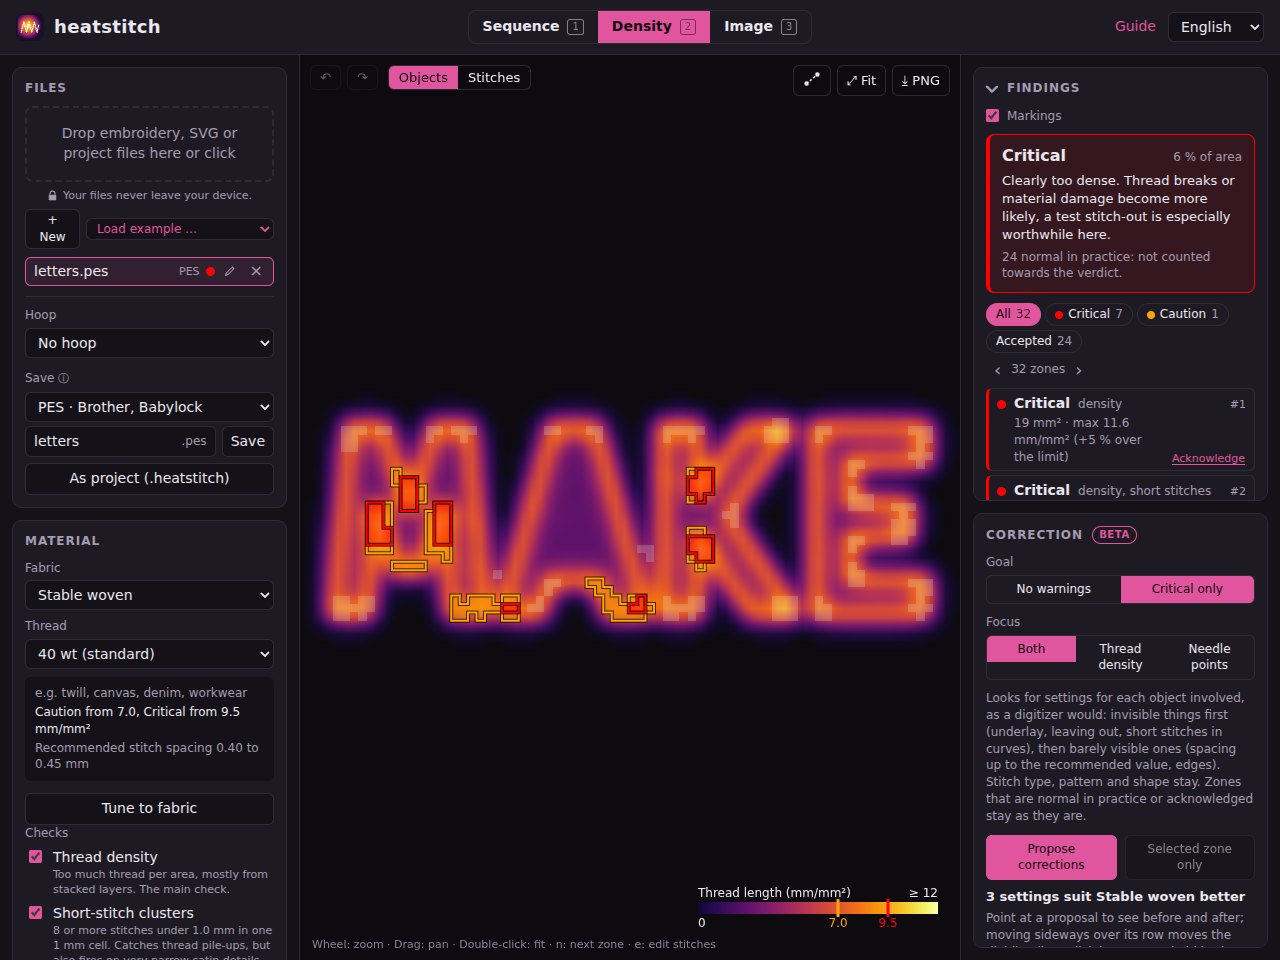
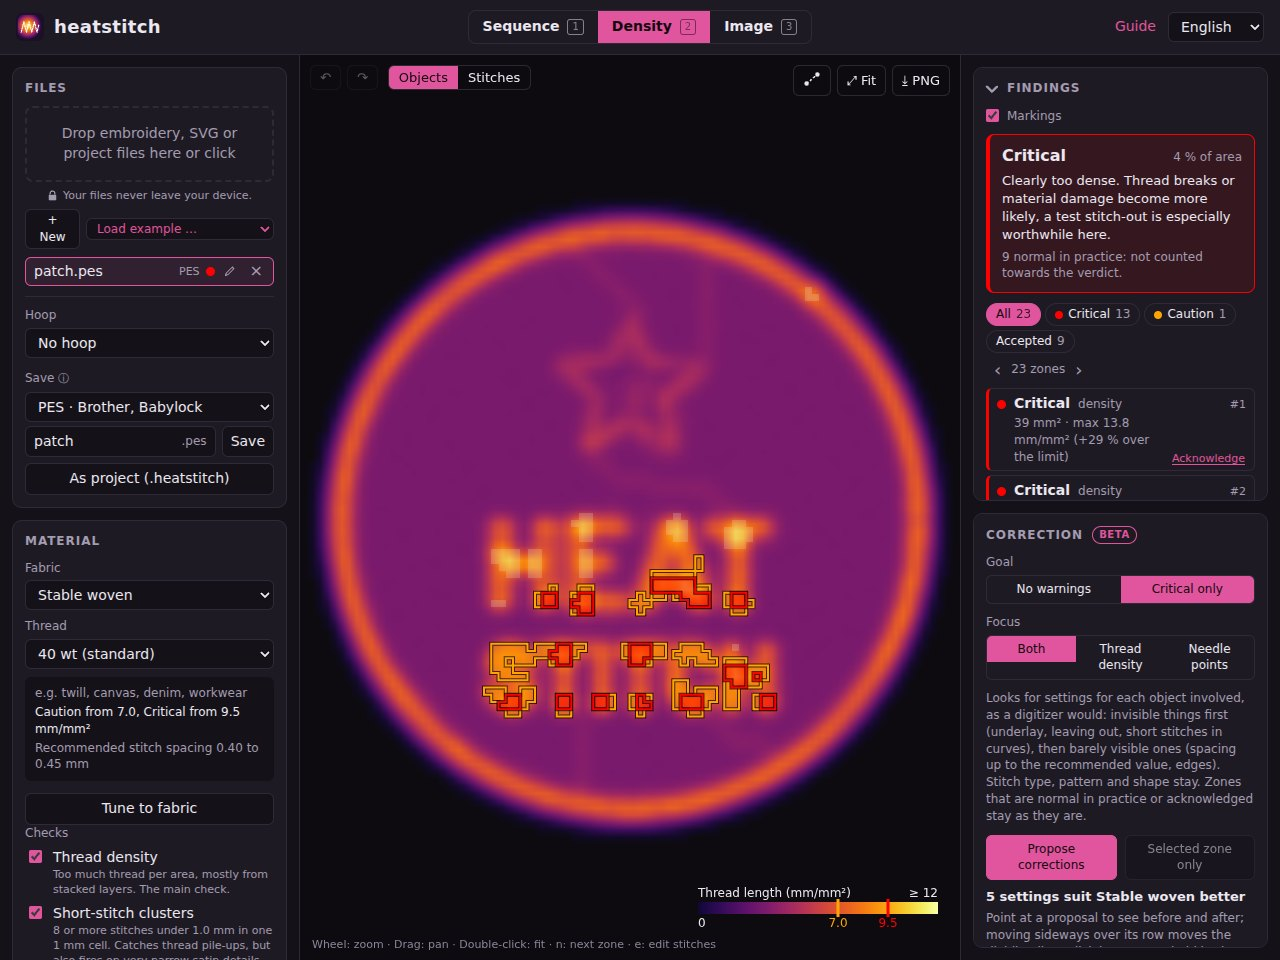
Guide shows the patch instead of the MAKE letters
Satin, merge, stitches, findings and compare figures and their captions now use patch.pes, the Aufnäher of the demo project.

Claude-Session: https://claude.ai/code/session_01379gitMZ3UzT9w36uwz6PC

diff --git a/docs.html b/docs.html
@@ -121,7 +121,7 @@
         <p class="demos">
           <b>Zum Ausprobieren</b> gibt es die Demo-Dateien, aus denen die Bilder dieser Anleitung stammen, jede mit einem Befund:
           <a href="examples/demos/overlap.pes" download>overlap.pes</a> (gestapelte Füllungen),
-          <a href="examples/demos/letters.pes" download>letters.pes</a> (Füllung unter Satin),
+          <a href="examples/demos/patch.pes" download>patch.pes</a> (der Aufnäher aus dem Demo-Projekt als Stickdatei: Satinschrift auf einer Füllung),
           <a href="examples/demos/sun.dst" download>sun.dst</a> (Kurzstiche),
           <a href="examples/demos/leather-patch.dst" download>leather-patch.dst</a> (Perforation) und
           <a href="examples/demos/confetti.pes" download>confetti.pes</a> (Sprünge und Schnitte).
@@ -187,8 +187,8 @@
           <dd><i>Nicht sticken</i> behält die gewählten Objekte, nimmt sie aber aus den Stichen: Sie bleiben als dünner Umriss sichtbar. <i>Als Hilfslinie</i> behält sie als gestrichelte Linie, etwa den Umriss des Kleidungsstücks oder eine Linie zum Ausrichten; Hilfslinien werden nie gestickt. Beide warten im Block <i>Nicht gestickt</i> unter der Liste. Dort holt <i>Sticken</i> eines an seine alte Stelle in der Reihenfolge zurück, mit Stichen und Einstellungen wie vorher; der mittlere Knopf wechselt zwischen aus und Hilfslinie, × löscht es. Hat eine SVG ein schlichtes Rechteck hinter allem, wie es viele Zeichenprogramme exportieren, ist das ein Hintergrund: Er wird nicht gestickt, sondern landet ebenfalls dort.</dd>
         </dl>
         <figure>
-          <img src="/guide/merge-de.jpg" width="1280" height="800" loading="lazy" alt="Die Buchstaben M und K aus letters.pes zu einer Füllung zusammengefasst, rechts das Objekt mit seinen Teilen und dem Knopf In Teile trennen" />
-          <figcaption>M und K aus <a href="examples/demos/letters.pes" download>letters.pes</a> zu einem Objekt zusammengefasst: eine Fläche, neu gestickt mit durchlaufenden Reihen.</figcaption>
+          <img src="/guide/merge-de.jpg" width="1280" height="800" loading="lazy" alt="Der Stern aus patch.pes als ein Objekt, rechts die Karte Objekt mit seinen zwei Teilen und dem Knopf In Teile trennen" />
+          <figcaption>Der Stern aus <a href="examples/demos/patch.pes" download>patch.pes</a> war als zwei Objekte erkannt, Fläche und Rand. Zusammengefasst ist er ein Objekt mit zwei Teilen, das sich als Ganzes verschieben und einstellen lässt.</figcaption>
         </figure>
 
         <h2 id="de-settings">Stich-Einstellungen</h2>
@@ -271,12 +271,12 @@
           <dd>Mit <i>Mit Querlinien zu Satin</i> ziehst du auf einer Füllung auch Trennlinien (Schalter auf <i>Trennlinie</i>, Taste <kbd>t</kbd>, oder <kbd>Umschalt</kbd> beim Ziehen). Sie teilen die Fläche in Teile, etwa die drei Beine eines m vom Bogen, und jeder Teil wird eine Säule für sich: Eine Querlinie darin reicht. Die Teile werden in einem Zug ohne Garnschnitt gestickt: Ein Teil, der an einem anderen hängt, wird zuerst hin und zurück gestickt, und der Weg dazwischen liegt unter Satin, der später kommt. Ein Loch wie in e, R oder o öffnest du mit einer Trennlinie vom Rand hinein (bei mehreren Löchern wie in B oder 8 je eine, auch von Loch zu Loch); der Satin läuft dann um es herum. Ein Teil, der keine Säule ergibt, oder ein noch nicht geöffnetes Loch wird rot umrandet. Unter <i>Richtung festlegen</i> zeigt jeder Teil dort, wo sein Satin beginnt, seinen Platz in der Reihenfolge: Nummer, Pfeil, Schere und ⇄ wie bei den Abschnitten; <i>Beste Reihenfolge</i> wählt Reihenfolge, Richtung und Spiegelung so, dass die Wege zwischen den Teilen unter noch zu stickendem Satin liegen, wie beim ersten Sticken als Satin. Die Trennlinien bleiben bearbeitbar: ein Ende ziehen, eine anklicken und <kbd>Entf</kbd> drücken oder eine neue ziehen, und die Fläche wird neu geteilt. Solange ein Teil keine Querlinie hat oder ein Loch nicht geöffnet ist, bleiben die Stiche, wie sie waren.</dd>
         </dl>
         <figure>
-          <img src="/guide/satin-de.jpg" width="1280" height="800" loading="lazy" alt="Die Satinkante des M aus letters.pes mit ihren Querlinien: gelbe Linien quer über die Säule, an jeder Ecke aufgefächert, das Feld Richtung in der Karte" />
-          <figcaption>Das Satin-M aus <a href="examples/demos/letters.pes" download>letters.pes</a> nach <i>Ecken vorschlagen</i>: An jedem Knick fächern die Querlinien auf, sodass die Stiche um die Ecke drehen, statt sich zu stauen.</figcaption>
+          <img src="/guide/satin-de.jpg" width="1280" height="800" loading="lazy" alt="Das Satin-S aus patch.pes mit seinen Querlinien: gelbe Linien quer über die Säule, in den Bögen aufgefächert, die Karte Objekt rechts" />
+          <figcaption>Das Satin-S aus <a href="examples/demos/patch.pes" download>patch.pes</a> nach <i>Richtung festlegen</i>: In den Bögen fächern die Querlinien auf, sodass die Stiche der Kurve folgen, statt sich innen zu stauen. Jede gelbe Linie lässt sich an ihren Enden ziehen.</figcaption>
         </figure>
         <figure>
-          <img src="/guide/sections.jpg" width="480" height="575" loading="lazy" alt="Das Satin-M aus letters.pes in acht Abschnitten: hellblaue Trennlinien an den spitzen Ecken, gelbe Querlinien dazwischen, an jedem Abschnitt Nummer, Pfeil und Schere" />
-          <figcaption>Dasselbe M nach <i>Abschnitte vorschlagen</i>: Die hellblauen Trennlinien teilen es an den spitzen Ecken in acht Abschnitte, gestickt ohne Garnschnitt. Nummer, Pfeil und Schere an jedem Abschnitt ändern Reihenfolge, Richtung und Schnitt.</figcaption>
+          <img src="/guide/sections.jpg" width="480" height="575" loading="lazy" alt="Das Satin-S aus patch.pes in drei Abschnitten: hellblaue Trennlinien an den Enden der Bögen, gelbe Querlinien dazwischen, an jedem Abschnitt Nummer, Pfeil und Schere" />
+          <figcaption>Dasselbe S nach <i>Abschnitte vorschlagen</i>: Die hellblauen Trennlinien teilen es in drei Abschnitte, die nacheinander gestickt werden. Nummer, Pfeil und Schere an jedem Abschnitt ändern Reihenfolge, Richtung und Schnitt.</figcaption>
         </figure>
 
         <h3 id="de-lines">Linien und Steppstich</h3>
@@ -336,8 +336,8 @@
           Auswahl mehrere Objekte umfassen, siehe <a href="#de-correct">Korrektur von Hand</a>.
         </p>
         <figure>
-          <img src="/guide/stitches-de.jpg" width="1280" height="800" loading="lazy" alt="Das A aus letters.pes auf der Ebene Stiche: seine Einstiche als Punkte, einer gewählt mit den Längen seiner beiden Stiche, die Karte Objekt mit den Änderungen von Hand" />
-          <figcaption>Das A aus <a href="examples/demos/letters.pes" download>letters.pes</a> auf der Ebene <i>Stiche</i>: ein Einstich verschoben, das Etikett zeigt die beiden Stichlängen, die Karte zählt die Änderung.</figcaption>
+          <img src="/guide/stitches-de.jpg" width="1280" height="800" loading="lazy" alt="Der Stern aus patch.pes auf der Ebene Stiche: seine Einstiche als Punkte, einer gewählt mit den Längen seiner beiden Stiche, die Karte Objekt mit den Änderungen von Hand" />
+          <figcaption>Der Stern aus <a href="examples/demos/patch.pes" download>patch.pes</a> auf der Ebene <i>Stiche</i>: ein Einstich verschoben, das Etikett zeigt die beiden Stichlängen, die Karte zählt die Änderung.</figcaption>
         </figure>
 
         <h2 id="de-draw">Formen zeichnen</h2>
@@ -508,8 +508,8 @@
           <i>quittieren</i>, wenn sie so bleiben soll. Perforation zählt immer. Die Liste der Befunde lässt sich zuklappen, ihr Urteil bleibt in der Kopfzeile.
         </p>
         <figure>
-          <img src="/guide/findings-de.jpg" width="1280" height="960" loading="lazy" alt="Schriftzug MAKE mit kritischen Zonen im Inneren der Buchstaben und grauen Zonen an den Rändern, rechts die Befunde" />
-          <figcaption><a href="examples/demos/letters.pes" download>letters.pes</a>: Die Füllung reicht weit unter die Satinkante. Rote und orange Zonen zählen, die grauen Stellen an Ecken und Übergängen sind praxisüblich.</figcaption>
+          <img src="/guide/findings-de.jpg" width="1280" height="960" loading="lazy" alt="Der Aufnäher als Dichtekarte: kritische Zonen in den Satinbuchstaben HEAT STITCH auf der Füllung, rechts die Befunde" />
+          <figcaption><a href="examples/demos/patch.pes" download>patch.pes</a>: Die Satinbuchstaben liegen auf der vollen Füllung, dort stapelt sich das Garn. Rote und orange Zonen zählen, die grauen Stellen an Ecken und Übergängen sind praxisüblich.</figcaption>
         </figure>
         <div class="fig-pair">
           <figure>
@@ -583,8 +583,8 @@
           Fläche und Spitzendichte.
         </p>
         <figure>
-          <img src="/guide/compare-de.jpg" width="1280" height="960" loading="lazy" alt="Geteilte Ansicht des Schriftzugs, links Original, rechts korrigiert, mit Vergleichstabelle" />
-          <figcaption>Vergleich mit realistischen Fäden: Die Stiche sehen gleich aus, die Tabelle zeigt, was sich geändert hat.</figcaption>
+          <img src="/guide/compare-de.jpg" width="1280" height="960" loading="lazy" alt="Geteilte Ansicht des Aufnähers, links Original, rechts korrigiert, mit Vergleichstabelle" />
+          <figcaption>Links das Original, rechts die Korrektur: Die kritische Fläche des Aufnähers schrumpft auf gut ein Drittel, die Tabelle zeigt jede Zahl vorher und nachher.</figcaption>
         </figure>
 
         <h2 id="de-image">Modus Bild</h2>
@@ -818,7 +818,7 @@
         <p class="demos">
           <b>To try things out</b> there are the demo files the pictures in this guide come from, each with one finding:
           <a href="examples/demos/overlap.pes" download>overlap.pes</a> (stacked fills),
-          <a href="examples/demos/letters.pes" download>letters.pes</a> (fill under satin),
+          <a href="examples/demos/patch.pes" download>patch.pes</a> (the patch of the demo project as a stitch file: satin letters on a fill),
           <a href="examples/demos/sun.dst" download>sun.dst</a> (short stitches),
           <a href="examples/demos/leather-patch.dst" download>leather-patch.dst</a> (perforation) and
           <a href="examples/demos/confetti.pes" download>confetti.pes</a> (jumps and trims).
@@ -883,8 +883,8 @@
           <dd><i>Don't sew</i> keeps the selected objects but takes them out of the stitches: they stay visible as a thin outline. <i>As a guide</i> keeps them as a dashed line, say the outline of the garment or a line to align to; guides are never sewn. Both wait in the <i>Not sewn</i> block under the list. There, <i>Sew</i> brings one back to its old place in the order, with stitches and settings as before; the middle button switches between off and guide, × deletes it. If an SVG has a plain rectangle behind everything, as many drawing programs export it, that is a background: it is not sewn and lands there as well.</dd>
         </dl>
         <figure>
-          <img src="/guide/merge-en.jpg" width="1280" height="800" loading="lazy" alt="The letters M and K of letters.pes combined into one fill, on the right the object with its pieces and the Split into pieces button" />
-          <figcaption>M and K of <a href="examples/demos/letters.pes" download>letters.pes</a> combined into one object: one area, sewn anew with rows running through.</figcaption>
+          <img src="/guide/merge-en.jpg" width="1280" height="800" loading="lazy" alt="The star of patch.pes as one object, on the right the Object card with its two pieces and the Split into pieces button" />
+          <figcaption>The star of <a href="examples/demos/patch.pes" download>patch.pes</a> was recognized as two objects, area and edge. Combined it is one object with two pieces that moves and takes settings as a whole.</figcaption>
         </figure>
 
         <h2 id="en-settings">Stitch settings</h2>
@@ -967,12 +967,12 @@
           <dd>With <i>To satin with rungs</i> on a fill you can also draw cut lines (switch to <i>Cut line</i>, press <kbd>t</kbd>, or hold <kbd>Shift</kbd> while drawing). They split the area into parts, for example the three legs of an m from its arch, and each part becomes a column of its own: one rung in it is enough. The parts are sewn as one run without trims: a part that hangs off another is sewn out and back first, and the way between them stays under satin that comes later. A hole, as in e, R or o, is opened with a cut line from the edge into it (with several holes, as in B or 8, one each, also from hole to hole); the satin then goes round it. A part that makes no column or a hole not opened yet is outlined in red. Under <i>Set direction</i> each part shows its place in the order where its satin starts: number, arrow, scissors and ⇄ as with the sections; <i>Best order</i> picks order, direction and mirroring so the ways between the parts run under satin still to be sewn, as when the fill is first sewn as satin. The cut lines stay editable: drag an end, click one and press <kbd>Del</kbd>, or draw a new one, and the area is cut into parts anew. Until every part has a rung and every hole is open, the stitches stay as they were.</dd>
         </dl>
         <figure>
-          <img src="/guide/satin-en.jpg" width="1280" height="800" loading="lazy" alt="The satin border of the M in letters.pes with its rungs shown: yellow lines across the column, fanning out at each corner, the Direction field in the card" />
-          <figcaption>The satin M of <a href="examples/demos/letters.pes" download>letters.pes</a> after <i>Suggest corners</i>: at every bend the rungs fan out, so the stitches turn around the corner instead of piling up.</figcaption>
+          <img src="/guide/satin-en.jpg" width="1280" height="800" loading="lazy" alt="The satin S of patch.pes with its rungs shown: yellow lines across the column, fanning out in the bends, the Object card on the right" />
+          <figcaption>The satin S of <a href="examples/demos/patch.pes" download>patch.pes</a> after <i>Set direction</i>: in the bends the rungs fan out, so the stitches follow the curve instead of piling up on the inside. Every yellow line can be dragged at its ends.</figcaption>
         </figure>
         <figure>
-          <img src="/guide/sections.jpg" width="480" height="575" loading="lazy" alt="The satin M of letters.pes in eight sections: light blue cut lines at the sharp corners, yellow rungs between them, a number, arrow and scissors on each section" />
-          <figcaption>The same M after <i>Suggest sections</i>: the light blue cut lines split it at the sharp corners into eight sections, sewn without a trim. Number, arrow and scissors on each section change its order, direction and trim.</figcaption>
+          <img src="/guide/sections.jpg" width="480" height="575" loading="lazy" alt="The satin S of patch.pes in three sections: light blue cut lines at the ends of the bends, yellow rungs between them, a number, arrow and scissors on each section" />
+          <figcaption>The same S after <i>Suggest sections</i>: the light blue cut lines split it into three sections, sewn one after the other. Number, arrow and scissors on each section change its order, direction and trim.</figcaption>
         </figure>
 
         <h3 id="en-lines">Lines and running stitch</h3>
@@ -1030,8 +1030,8 @@
           objects, see <a href="#en-correct">Correction by hand</a>.
         </p>
         <figure>
-          <img src="/guide/stitches-en.jpg" width="1280" height="800" loading="lazy" alt="The letter A of letters.pes opened at the level Stitches: its needle points as dots, one selected with the lengths of its two stitches, the Object card with the changes by hand" />
-          <figcaption>The A of <a href="examples/demos/letters.pes" download>letters.pes</a> at the <i>Stitches</i> level: one needle point moved, the label shows the two stitch lengths, the card counts the change.</figcaption>
+          <img src="/guide/stitches-en.jpg" width="1280" height="800" loading="lazy" alt="The star of patch.pes opened at the level Stitches: its needle points as dots, one selected with the lengths of its two stitches, the Object card with the changes by hand" />
+          <figcaption>The star of <a href="examples/demos/patch.pes" download>patch.pes</a> at the <i>Stitches</i> level: one needle point moved, the label shows the two stitch lengths, the card counts the change.</figcaption>
         </figure>
 
         <h2 id="en-draw">Draw shapes</h2>
@@ -1203,8 +1203,8 @@
           always counts. The list of findings folds away; its verdict stays in the header.
         </p>
         <figure>
-          <img src="/guide/findings-en.jpg" width="1280" height="960" loading="lazy" alt="Lettering MAKE with critical zones on the inside of the letters and grey zones along the borders, the findings on the right" />
-          <figcaption><a href="examples/demos/letters.pes" download>letters.pes</a>: the fill reaches far under the satin border. Red and orange zones count, the grey spots at corners and joins are normal in practice.</figcaption>
+          <img src="/guide/findings-en.jpg" width="1280" height="960" loading="lazy" alt="The patch as a density map: critical zones in the satin letters HEAT STITCH on the fill, the findings on the right" />
+          <figcaption><a href="examples/demos/patch.pes" download>patch.pes</a>: the satin letters sit on the full fill, where the thread piles up. Red and orange zones count, the grey spots at corners and joins are normal in practice.</figcaption>
         </figure>
         <div class="fig-pair">
           <figure>
@@ -1277,8 +1277,8 @@
           peak density.
         </p>
         <figure>
-          <img src="/guide/compare-en.jpg" width="1280" height="960" loading="lazy" alt="Split view of the letters, original on the left and corrected on the right, with the comparison table" />
-          <figcaption>Comparison with realistic threads: the stitches look the same, the table shows what changed.</figcaption>
+          <img src="/guide/compare-en.jpg" width="1280" height="960" loading="lazy" alt="Split view of the patch, original on the left and corrected on the right, with the comparison table" />
+          <figcaption>Original on the left, correction on the right: the critical area of the patch shrinks to about a third, the table shows every number before and after.</figcaption>
         </figure>
 
         <h2 id="en-image">Image mode</h2>
